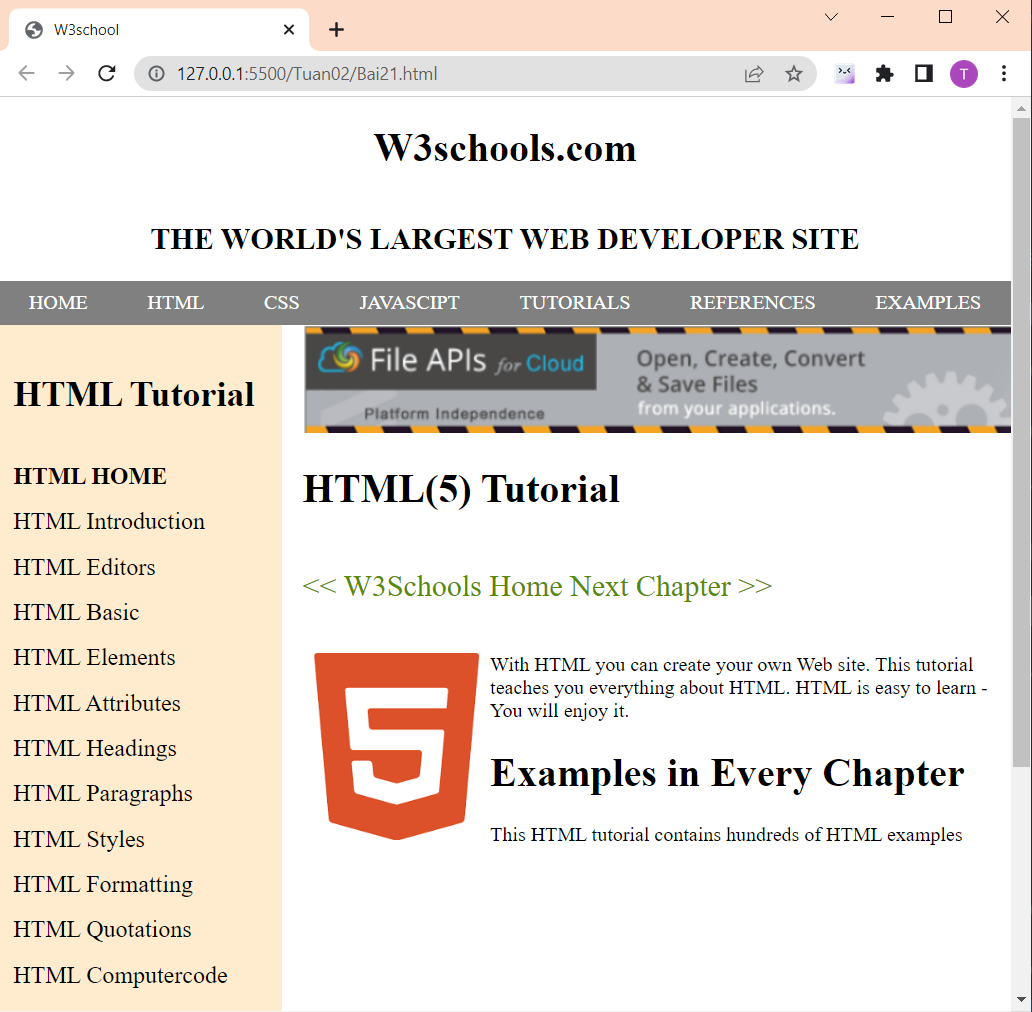
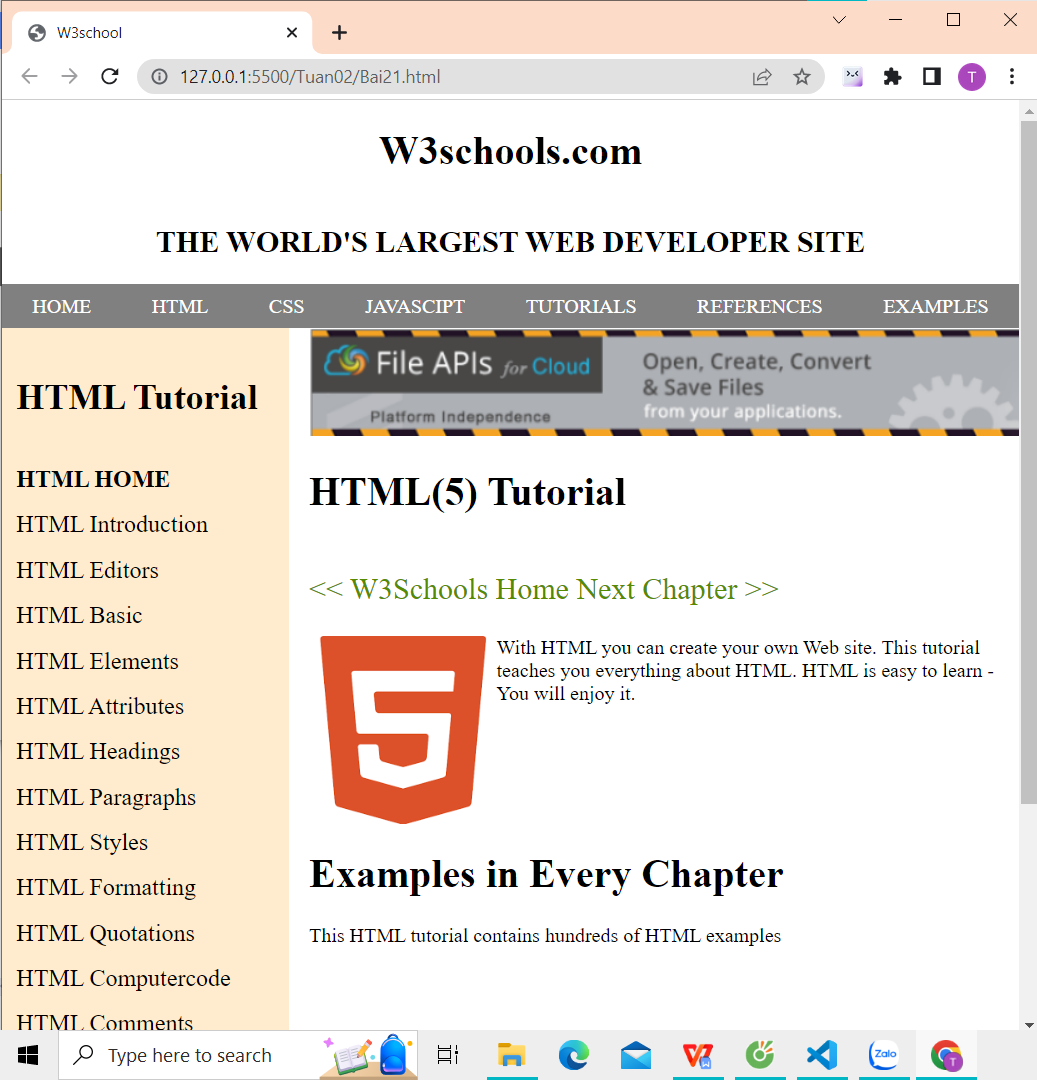
update bai21.html

diff --git a/Tuan02/Bai21.html b/Tuan02/Bai21.html
@@ -59,6 +59,9 @@
             font-size: x-large;
             color: rgb(84, 139, 2);
         }
+        .introduction{
+            height: 150px;
+        }
     </style>    
 </head>
 <body>
@@ -111,7 +114,7 @@
                             <span>Next Chapter >></span>
                         </p>
                     </div> 
-                    <p><img src="videoAndImage/html.png" align="left" height="150px">With HTML you can create your own Web site. This tutorial teaches you everything about HTML. HTML is easy to learn - You will enjoy it.</p>
+                    <div class="introduction"><img src="videoAndImage/html.png" align="left" height="150px">With HTML you can create your own Web site. This tutorial teaches you everything about HTML. HTML is easy to learn - You will enjoy it.</div>
                     <h1>Examples in Every Chapter</h1>
                     <p>This HTML tutorial contains hundreds of HTML examples</p>
                 </div>
